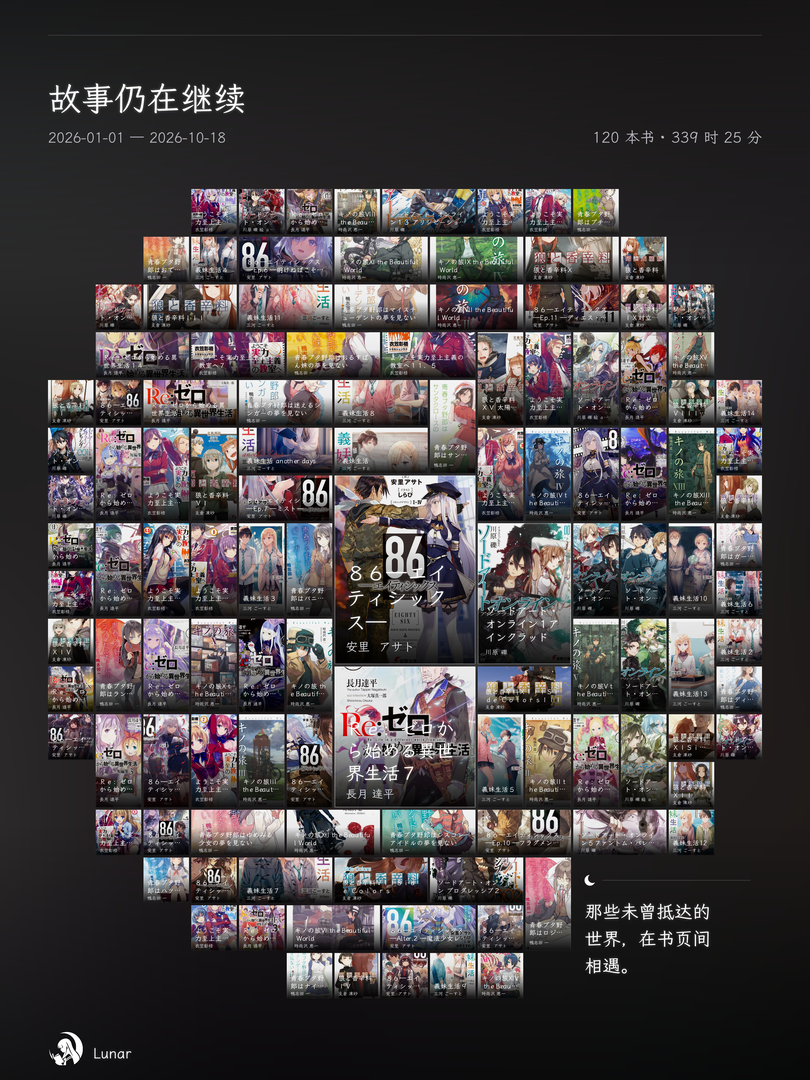
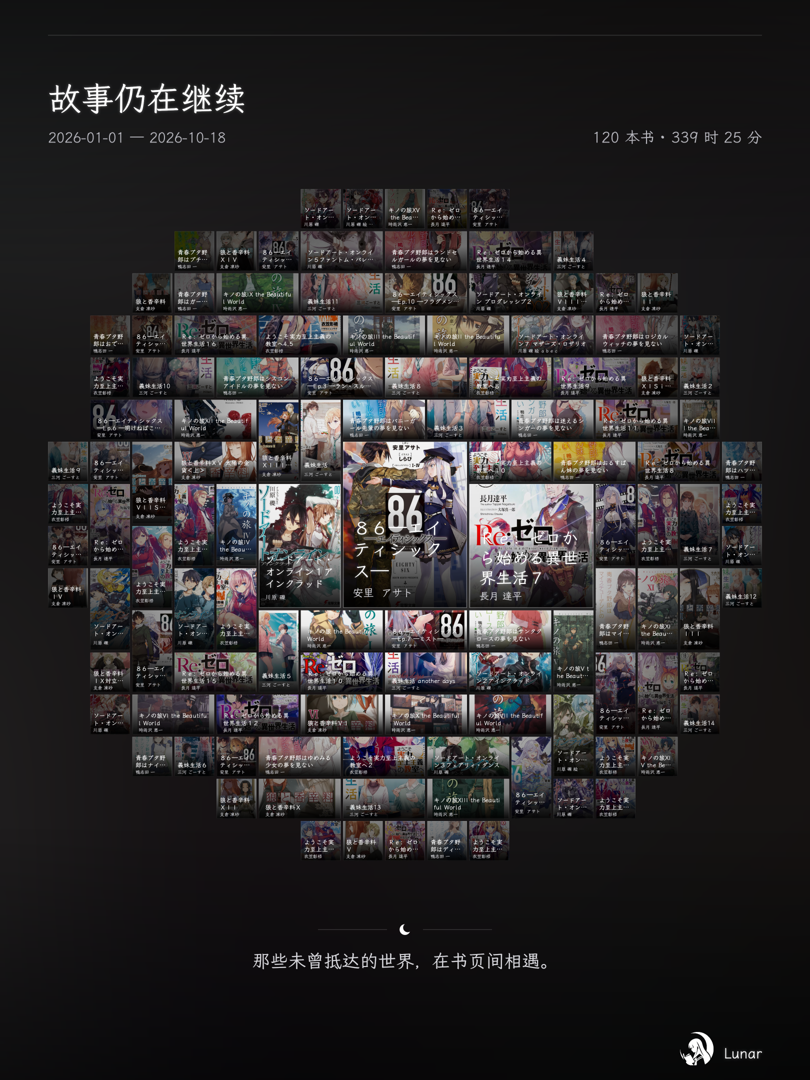
docs: show balanced light novel posters at four densities

diff --git a/README.md b/README.md
@@ -1,7 +1,7 @@
-# Lunar reading poster UI
+# Lunar reading posters
 
-Android API 36 / 320dp. Real light-novel metadata and covers; simulated reading sessions. Poster images are native app exports. Editor screenshots show direct manipulation within the poster composition.
+Current 6 / 20 / 60 / 120 book exports from the production TypeScript layout and Skia renderer, rendered using CanvasKit. All originals are 3240 x 4320 PNGs. The four images are pixel-identical to the approved local samples with the Lunar signature at bottom right.
 
-Code: 3014eb36104c1f160b1a34424d01b04a1da030cc
+Real KADOKAWA light-novel metadata and covers; reading durations are synthetic fixtures, not user history. See SOURCES.md. These assets are documentation only and are not bundled with the app.
 
-See SOURCES.md for the 120 unique volume ISBNs and official publisher links.
+The remaining Android editor screenshots in this branch are earlier interaction-validation captures, not screenshots of this updated composition.
